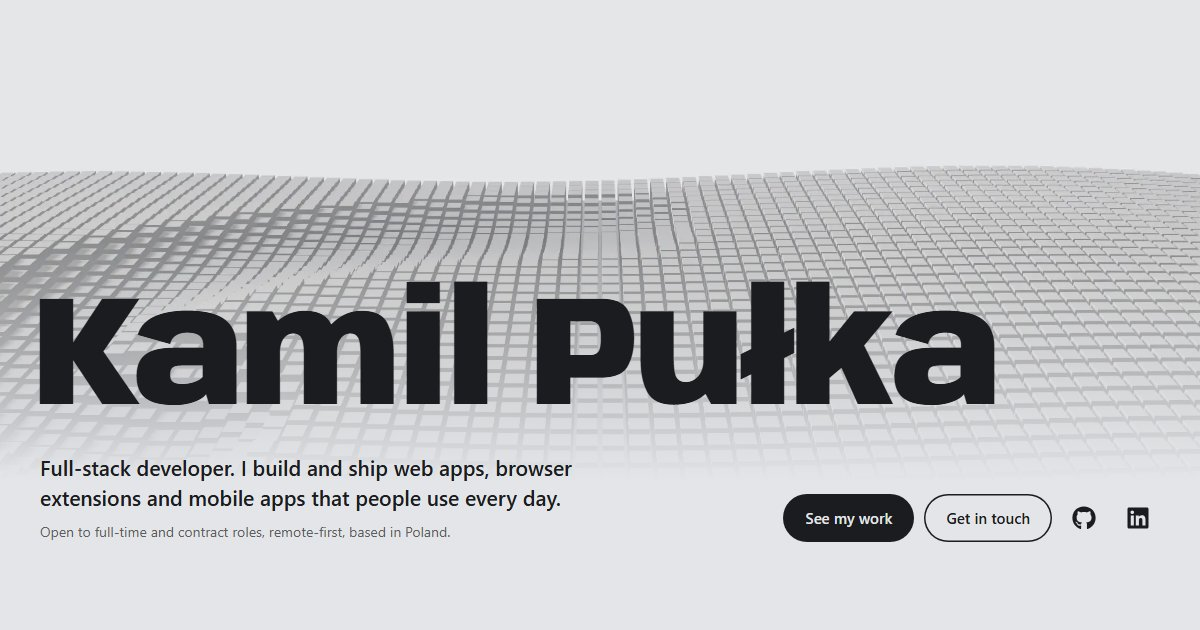
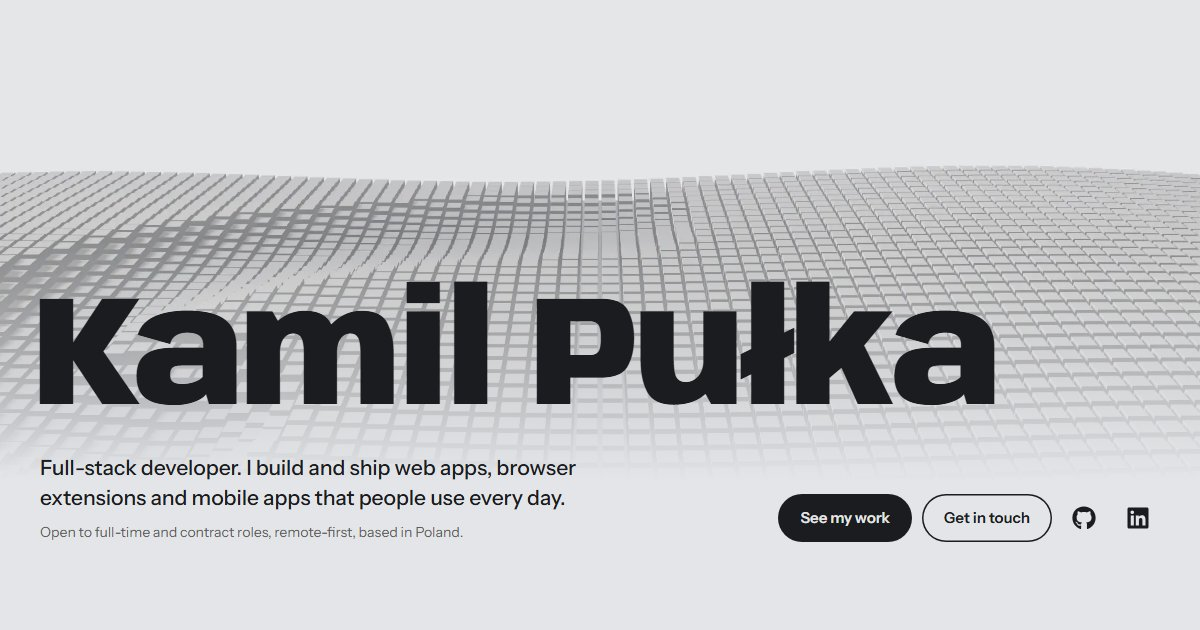
fix: set the body text in Instrument Sans
The font was self-hosted and named in --font-body, but nothing applied
it, so all body text fell back to the system font. Point Tailwind's
--font-sans at it, so the base styles use it on every page. Regenerate
the home page's preview image, which shows the hero text.

Changed region(s): [[0.0308, 0.7238, 0.4933, 0.8746], [0.6475, 0.7841, 0.8633, 0.8444]]

diff --git a/src/index.css b/src/index.css
@@ -18,6 +18,8 @@
 
   --font-display: "Anybody Variable", sans-serif;
   --font-body: "Instrument Sans Variable", sans-serif;
+  /* Tailwind's base styles set the page font from --font-sans. */
+  --font-sans: var(--font-body);
 
   --text-xs: 12px;
   --text-sm: 14px;
